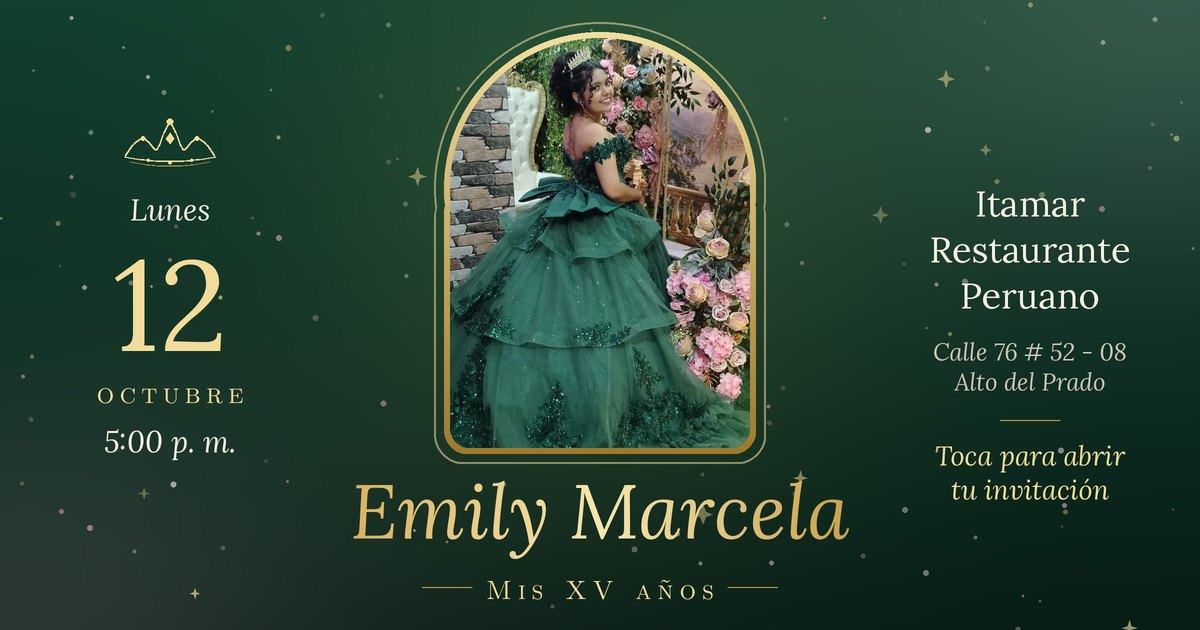
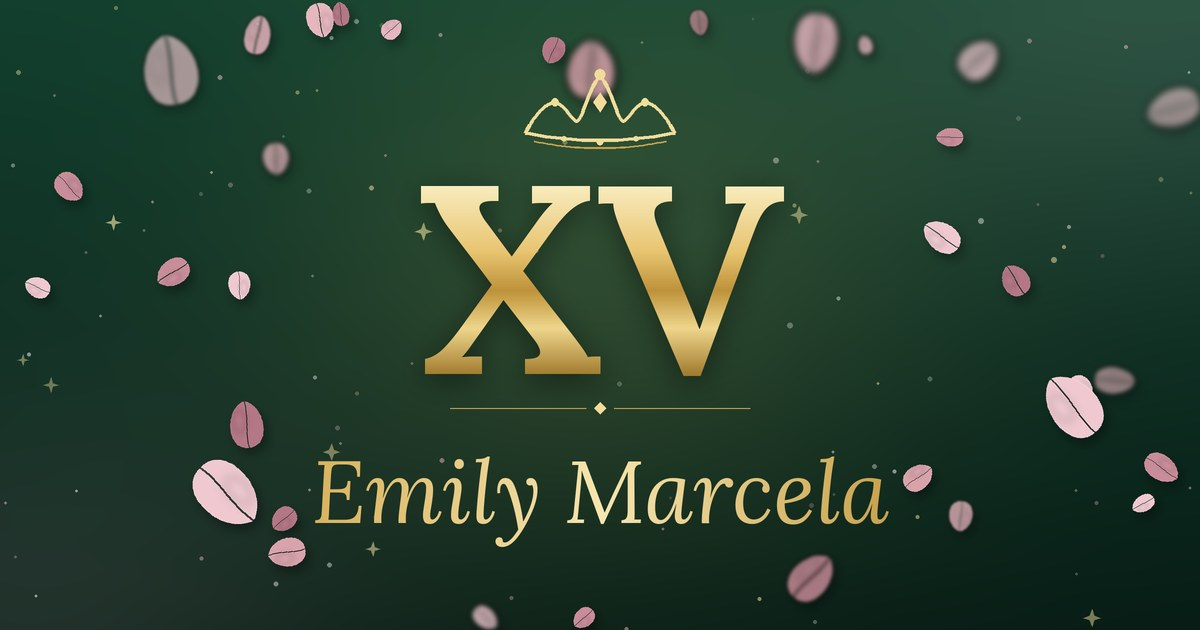
Redesign the preview card to survive the square thumbnail crop
Clients such as WhatsApp Desktop render the compact card: they crop the
1200x630 banner to a centered 630x630 square and scale it to roughly
64px, which dropped the date and venue and left the rest unreadable.
Keep the crown, XV and the name inside that centre square so the card
stays legible at thumbnail size.

Bump the Open Graph image to ?v=3 so the cached ?v=2 card is replaced.

diff --git a/index.html b/index.html
@@ -15,14 +15,14 @@
 <meta property="og:title" content="Emily Marcela te invita a sus XV años">
 <meta property="og:description" content="Lunes 12 de octubre, 5:00 p. m., en Itamar Restaurante Peruano. Toca para abrir tu invitación.">
 <meta property="og:url" content="https://ahernand53.github.io/xv-emily/">
-<meta property="og:image" content="https://ahernand53.github.io/xv-emily/preview.jpg?v=2">
+<meta property="og:image" content="https://ahernand53.github.io/xv-emily/preview.jpg?v=3">
 <meta property="og:image:width" content="1200">
 <meta property="og:image:height" content="630">
 <meta property="og:image:alt" content="Emily Marcela con su vestido de quinceañera">
 <meta name="twitter:card" content="summary_large_image">
 <meta name="twitter:title" content="Emily Marcela te invita a sus XV años">
 <meta name="twitter:description" content="Lunes 12 de octubre, 5:00 p. m., en Itamar Restaurante Peruano. Toca para abrir tu invitación.">
-<meta name="twitter:image" content="https://ahernand53.github.io/xv-emily/preview.jpg?v=2">
+<meta name="twitter:image" content="https://ahernand53.github.io/xv-emily/preview.jpg?v=3">
 <link rel="preconnect" href="https://fonts.googleapis.com">
 <link rel="preconnect" href="https://fonts.gstatic.com" crossorigin>
 <link rel="stylesheet" href="https://fonts.googleapis.com/css2?family=Cinzel:wght@400;600;700&family=Cormorant+Garamond:ital,wght@0,300;0,400;0,500;0,600;1,300;1,400;1,500&family=Great+Vibes&display=swap">
